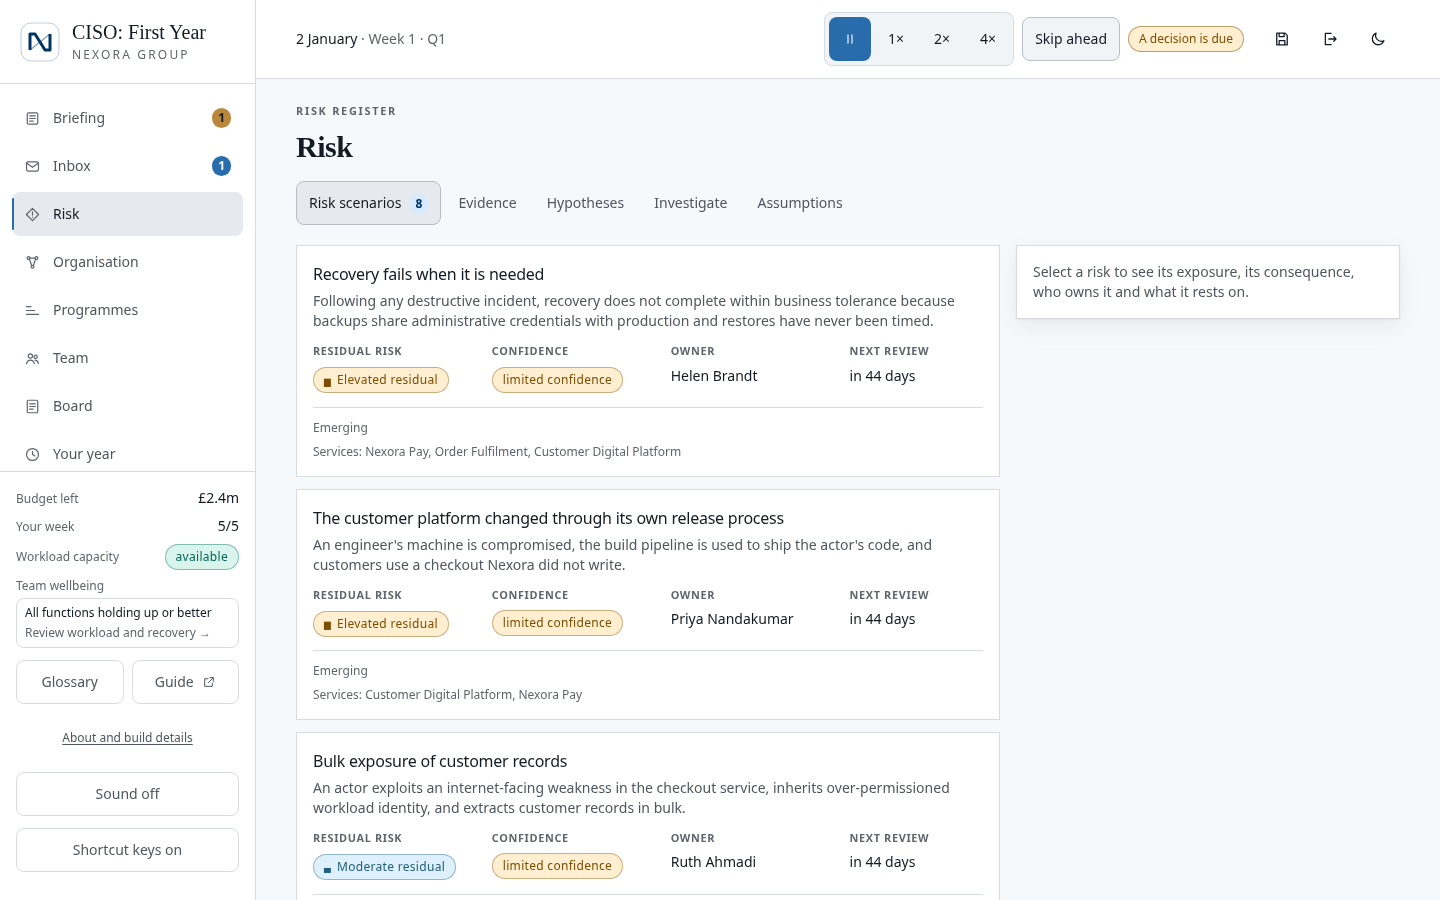
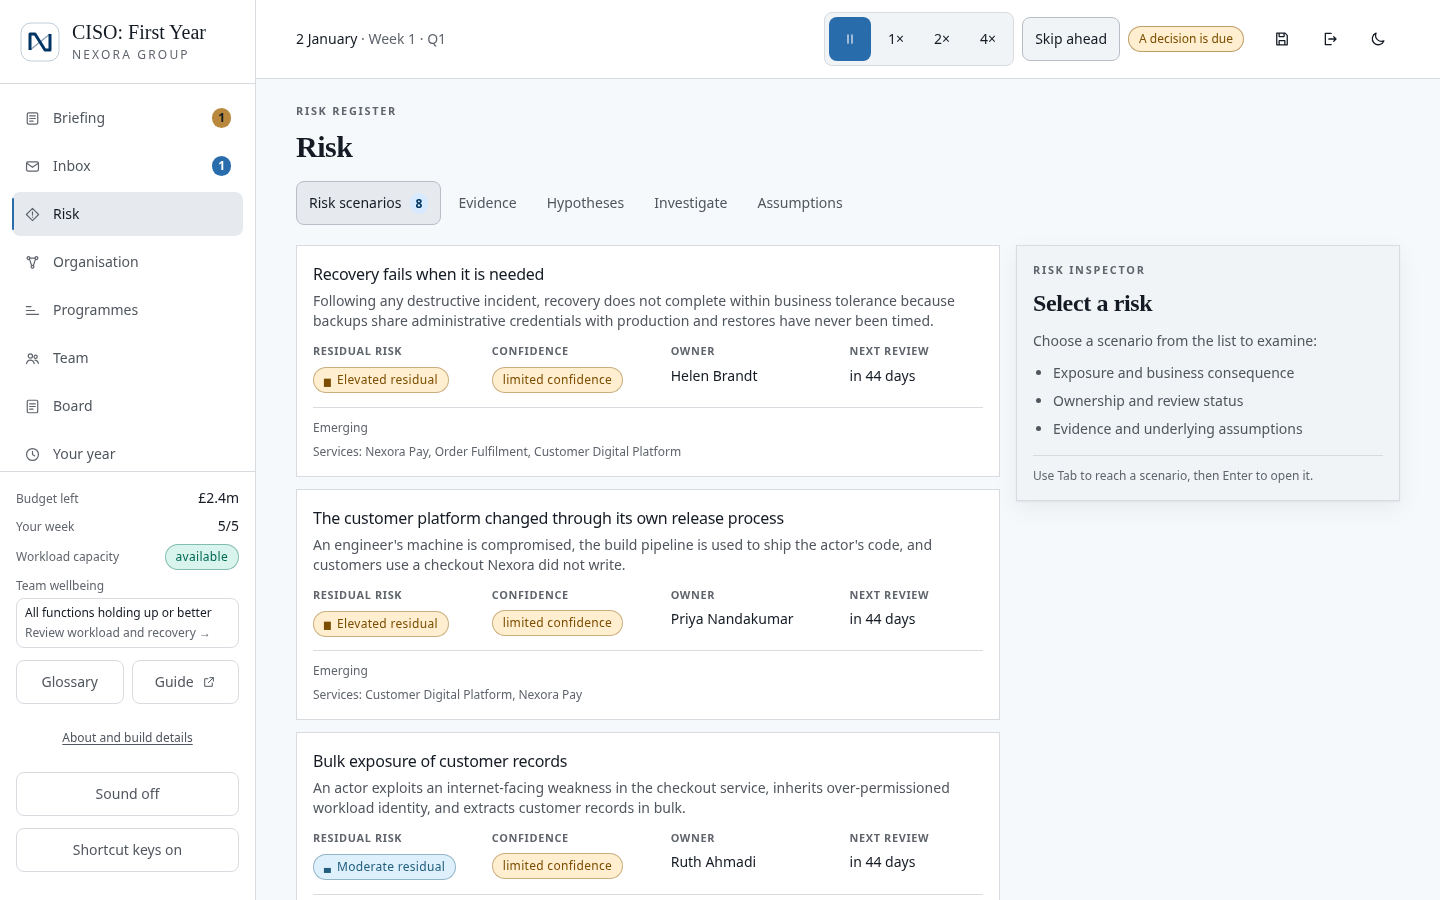
Refine compact header, risk navigation and reading layouts

Changed region(s): [[0.7188, 0.28, 0.9375, 0.56], [0.875, 0.5289, 0.9062, 0.56]]

diff --git a/src/components/layout/AppShell.tsx b/src/components/layout/AppShell.tsx
@@ -328,16 +328,16 @@ function ShellHeader() {
   if (!state) return null
   const view = briefing(state, index)
 
+  const resources = <dl className="header-resources grid grid-cols-[auto_auto] gap-x-3 text-xs lg:hidden" aria-label="Available resources">
+    <div><dt className="text-[0.65rem] text-ink-faint">Budget</dt><dd className="tabular-nums"><ChangeHighlight key={`${state.gameId}:budget`} value={view.budgetRemaining}>{money(view.budgetRemaining)}</ChangeHighlight></dd></div>
+    <div><dt className="text-[0.65rem] text-ink-faint">Attention</dt><dd className="tabular-nums"><ChangeHighlight key={`${state.gameId}:attention`} value={view.focusRemaining}>{attentionLeft(view.focusRemaining, view.focusPerWeek, true)}</ChangeHighlight></dd></div>
+  </dl>
+
   return (
     <header className="sticky top-0 z-20 border-b border-line bg-surface" data-print="hide">
-      {/* One row on wide screens. On a phone it was three: the date, the
-          save/theme controls, then the clock and a status chip, about a sixth
-          of the screen, with each screen's title sliding under it. Now the
-          date shares the first row with save, leave and theme, and the clock
-          has the second — at 320px the three icons had wrapped onto a row of
-          their own beneath it, a quarter of the screen. */}
-      <div className="mx-auto flex w-full max-w-6xl flex-wrap items-center gap-x-4 gap-y-1.5 px-4 py-2 sm:px-6 sm:py-3">
-        <div className="order-1 min-w-0 flex-1 lg:flex-none">
+      {/* Phones share the second row between clock controls and labelled resources. */}
+      <div className="mx-auto flex w-full max-w-6xl flex-wrap items-center gap-x-2 gap-y-1.5 px-4 py-2 sm:gap-x-4 sm:px-6 sm:py-3">
+        <div className="order-1 min-w-0 flex-1 basis-[calc(100%-10rem)] sm:basis-auto lg:flex-none">
           <p className="truncate text-sm font-medium">
             {view.dateLabel}
             <span className="text-ink-faint">
@@ -348,9 +348,7 @@ function ShellHeader() {
               {view.weekLabel} · Q{view.quarter}
             </span>
           </p>
-          <p className="truncate text-xs text-ink-faint lg:hidden">
-            <ChangeHighlight key={`${state.gameId}:budget`} value={view.budgetRemaining}>{money(view.budgetRemaining)} left</ChangeHighlight> · <ChangeHighlight key={`${state.gameId}:attention`} value={view.focusRemaining}>{attentionLeft(view.focusRemaining, view.focusPerWeek, true)} attention</ChangeHighlight>
-          </p>
+          <div className="hidden sm:block lg:hidden">{resources}</div>
         </div>
         <div className="order-2 flex shrink-0 items-center gap-1 sm:order-3 sm:ml-auto lg:ml-0" data-testid="header-tools">
           <Button
@@ -385,9 +383,10 @@ function ShellHeader() {
             <span className="sr-only">{theme === 'dark' ? 'Switch to light mode' : 'Switch to dark mode'}</span>
           </Button>
         </div>
-        <div className="order-3 w-full sm:order-2 sm:w-auto lg:flex lg:flex-1 lg:justify-end" data-testid="header-clock">
+        <div className="order-3 min-w-0 flex-1 basis-[calc(100%-9rem)] sm:order-2 sm:w-auto sm:flex-none sm:basis-auto lg:flex lg:flex-1 lg:justify-end" data-testid="header-clock">
           <TimeControls compact />
         </div>
+        <div className="order-4 sm:hidden">{resources}</div>
       </div>
     </header>
   )

diff --git a/src/screens/risk/RiskScreen.tsx b/src/screens/risk/RiskScreen.tsx
@@ -40,7 +40,7 @@ export function RiskScreen() {
       </header>
 
       <Tabs value={tab} onChange={setTab}>
-        <TabList label="Risk workspace">
+        <TabList label="Risk workspace" className="risk-tabs">
           {/* The count is what the tab lists: it counted open risks only, and
               read 11 over a list of 13 to 15 (AI second-year re-test). */}
           <Tab value="risks" count={risks.length}>Risk scenarios</Tab>
@@ -49,6 +49,7 @@ export function RiskScreen() {
           <Tab value="investigate">Investigate</Tab>
           <Tab value="assumptions" count={failedAssumptions}>Assumptions</Tab>
         </TabList>
+        <p className="mt-1 text-right text-xs text-ink-faint md:hidden">Swipe for more tabs →</p>
 
         <TabPanel value="risks">
           {risks.length === 0 ? (
@@ -120,11 +121,17 @@ export function RiskScreen() {
                 {selected ? (
                   <RiskDetail risk={selected} onClose={() => setUi({ selectedScenarioId: undefined })} />
                 ) : (
-                  <Card>
+                  <Card className="risk-inspector-prompt bg-surface-2 lg:sticky lg:top-24">
                     <CardBody>
-                      <p className="text-sm text-ink-muted">
-                        Select a risk to see its exposure, its consequence, who owns it and what it rests on.
-                      </p>
+                      <p className="document-kicker">Risk inspector</p>
+                      <h2 className="mt-2 font-display text-2xl">Select a risk</h2>
+                      <p className="mt-3 text-sm text-ink-muted">Choose a scenario from the list to examine:</p>
+                      <ul className="mt-3 list-disc space-y-2 pl-5 text-sm text-ink-muted">
+                        <li>Exposure and business consequence</li>
+                        <li>Ownership and review status</li>
+                        <li>Evidence and underlying assumptions</li>
+                      </ul>
+                      <p className="mt-4 border-t border-line pt-3 text-xs text-ink-faint">Use Tab to reach a scenario, then Enter to open it.</p>
                     </CardBody>
                   </Card>
                 )}

diff --git a/src/index.css b/src/index.css
@@ -647,7 +647,7 @@
 /* Reading and comparison surfaces retain their rhythm at the 320px floor. */
 .risk-comparison-grid { display: grid; grid-template-columns: repeat(2,minmax(0,1fr)); gap: 0.85rem 0.75rem; border-bottom: 1px solid var(--line); padding-bottom: 0.85rem; }
 .comparison-label { margin-bottom: 0.35rem; font-size: 0.68rem; font-weight: 600; color: var(--ink-faint); letter-spacing: 0.06em; text-transform: uppercase; }
-.portfolio-divider { display: flex; flex-wrap: wrap; justify-content: space-between; align-items: baseline; gap: 0.5rem; border-top: 2px solid var(--line-strong); padding: 1rem 0 0.25rem; margin-top: 1rem; font-family: var(--font-display); font-size: 1.5rem; }
+.portfolio-divider { display: flex; flex-wrap: wrap; justify-content: space-between; align-items: baseline; gap: 0.5rem; border-top: 1px solid var(--line-strong); padding: 0.75rem 0 0.25rem; font-family: var(--font-display); font-size: 1.5rem; }
 .reading-copy, .correspondence-body, .report-narrative { max-width: 66ch; line-height: 1.8; overflow-wrap: anywhere; }
 .correspondence-body > p, .report-narrative > p { margin-block: 0; }
 .correspondence-body > p + p, .report-narrative > p + p { margin-block-start: 1em; }
@@ -656,3 +656,13 @@
 .risk-comparison-grid .rounded-full { max-width: 100%; }
 .change-highlight { border-radius: 0.2rem; }
 @media (min-width: 1440px) { .risk-comparison-grid { grid-template-columns: minmax(0,1fr) minmax(0,1fr) minmax(0,1fr) minmax(0,0.8fr); } }
+
+/* Keep navigation compact without losing the final tab or resource values. */
+.portfolio-list > li + li { border-top: 1px solid var(--line); }
+.portfolio-list > li:has(.portfolio-divider) { border-top: 0; }
+.portfolio-divider + .programme-row { padding-top: 1rem; }
+@media (max-width: 767px) {
+  .risk-tabs { flex-wrap: nowrap; overflow-x: auto; overscroll-behavior-x: contain; scrollbar-width: thin; }
+  .message-reader .sender-signature { padding-block: 0.5rem; gap: 0.75rem; }
+  .message-reader .sender-signature > span[aria-hidden] { width: 3.5rem; height: 3.5rem; border-radius: 0.75rem; }
+}

diff --git a/tests/e2e/reading-flow.spec.ts b/tests/e2e/reading-flow.spec.ts
@@ -60,3 +60,35 @@ test('risk cards align the same four public facts and programmes retain focus wh
   await expect(row.getByRole('button', { name: 'Resume', exact: true })).toBeFocused()
   await expectNoHorizontalScroll(page)
 })
+
+
+test('compact resources stay readable and the final risk tab remains reachable by keyboard', async ({ page }) => {
+  await startCampaign(page, 'e2e-compact-workspace')
+  if (page.viewportSize()!.width < 1024) {
+    const resources = page.locator('.header-resources:visible')
+    await expect(resources.locator('dt')).toHaveText(['Budget', 'Attention'])
+    for (const value of await resources.locator('dd').all()) {
+      await expect(value).toBeInViewport()
+      expect(await value.evaluate((element) => element.scrollWidth <= element.clientWidth)).toBe(true)
+    }
+  }
+  await goTo(page, 'Risk')
+  await expect(page.getByRole('heading', { name: 'Select a risk', exact: true })).toBeVisible()
+  const tabs = page.getByRole('tablist', { name: 'Risk workspace' })
+  const first = tabs.getByRole('tab', { name: /^Risk scenarios/ })
+  const last = tabs.getByRole('tab', { name: /^Assumptions/ })
+  await first.focus()
+  await first.press('End')
+  await expect(last).toBeFocused()
+  await expect(last).toHaveAttribute('aria-selected', 'true')
+  await expect(last).toBeInViewport()
+  await last.press('Home')
+  await expect(first).toBeFocused()
+  await expect(first).toBeInViewport()
+  if (page.viewportSize()!.width < 768) {
+    const rows = await tabs.getByRole('tab').evaluateAll((elements) => elements.map((element) => Math.round(element.getBoundingClientRect().top)))
+    expect(new Set(rows).size).toBe(1)
+    await expect(page.getByText('Swipe for more tabs →')).toBeVisible()
+  }
+  await expectNoHorizontalScroll(page)
+})

diff --git a/src/screens/inbox/InboxScreen.tsx b/src/screens/inbox/InboxScreen.tsx
@@ -183,13 +183,13 @@ export function InboxScreen() {
                 </p>
                 <p className="text-sm text-ink-faint">{formatGameDate(selected.day).label}</p>
                 <h2 ref={heading} tabIndex={-1} className="mt-1 font-display text-2xl leading-tight text-balance">{selected.subject}</h2>
-                <div className="sender-signature mt-4 flex items-center gap-3">
+                <div className="sender-signature mt-2 md:mt-4 flex items-center gap-3">
                   {sender && <PersonPortrait key={sender.id} id={sender.id} name={sender.name} size={important ? 'large' : 'small'} />}
                   <div className="min-w-0 text-sm">
                     {sender ? <><p className="font-semibold text-ink">{sender.name}</p><p className="mt-1 text-ink-muted">{sender.role}</p>{selected.from !== sender.name && selected.from !== `${sender.name}, ${sender.role}` && <p className="mt-1 text-xs text-ink-faint">{selected.from}</p>}</> : <p className="text-ink-muted">{selected.from}</p>}
                   </div>
                 </div>
-                <div className="correspondence-body mt-6 space-y-4 text-pretty">
+                <div className="correspondence-body mt-3 md:mt-6 space-y-4 text-pretty">
                   {selected.body.split('\n\n').map((paragraph, position) => (
                     <p key={position} className="whitespace-pre-line leading-relaxed">
                       {paragraph}

diff --git a/src/components/ui/primitives.tsx b/src/components/ui/primitives.tsx
@@ -362,7 +362,7 @@ export function Tabs({
   )
 }
 
-export function TabList({ children, label }: { children: ReactNode; label: string }) {
+export function TabList({ children, label, className }: { children: ReactNode; label: string; className?: string }) {
   const onKeyDown = useCallback((event: React.KeyboardEvent<HTMLDivElement>) => {
     if (!['ArrowRight', 'ArrowLeft', 'Home', 'End'].includes(event.key)) return
     const tabs = Array.from(event.currentTarget.querySelectorAll<HTMLElement>('[role="tab"]'))
@@ -386,10 +386,9 @@ export function TabList({ children, label }: { children: ReactNode; label: strin
       role="tablist"
       aria-label={label}
       onKeyDown={onKeyDown}
-      // Wrapped rather than scrolled on a phone: scrolled, the last tabs sat
-      // off the right edge with nothing to say they were there, and a
-      // playtester looking for the enquiries tried three other screens first.
-      className="-mx-1 flex flex-wrap gap-1 px-1 pb-1"
+      // Wrap by default. A scrollable variant must provide a visible discovery
+      // cue: without one, a playtester missed the tabs beyond the right edge.
+      className={cn('-mx-1 flex flex-wrap gap-1 px-1 pb-1', className)}
     >
       {children}
     </div>

diff --git a/src/screens/programmes/ProgrammesScreen.tsx b/src/screens/programmes/ProgrammesScreen.tsx
@@ -70,7 +70,7 @@ export function ProgrammesScreen() {
 
       {live.length > 0 && (
         <section aria-label="Delivery portfolio">
-          <ul className="divide-y divide-line border-y border-line">
+          <ul className="portfolio-list">
             {groupedLive.map(({ programme, label, count }) => (
               <li key={programme.id}>
                 {label && <h2 className="portfolio-divider"><span>{label}</span>{' '}<span className="text-sm font-normal tabular-nums text-ink-muted">{count} {count === 1 ? 'programme' : 'programmes'}</span></h2>}

diff --git a/tests/e2e/visual-story.spec.ts b/tests/e2e/visual-story.spec.ts
@@ -33,7 +33,7 @@ test('important correspondence gives the named sender a readable portrait and ro
   await signature.scrollIntoViewIfNeeded()
   await expect(signature).toContainText('Marianne Okafor')
   await expect(signature).toContainText('Chief Executive')
-  expect((await signature.locator('img').locator('..').boundingBox())!.width).toBeGreaterThanOrEqual(80)
+  expect((await signature.locator('img').locator('..').boundingBox())!.width).toBeGreaterThanOrEqual(page.viewportSize()!.width < 768 ? 56 : 80)
   await expectNoHorizontalScroll(page)
 })
 

diff --git a/tests/e2e/scrolling.spec.ts b/tests/e2e/scrolling.spec.ts
@@ -50,6 +50,8 @@ for (const theme of ['light', 'dark'] as const) {
       // Horizontal filters must let vertical input reach the page or main pane.
       const filters = name === 'Inbox'
         ? main.getByRole('group', { name: 'Filter messages' })
+        : name === 'Risk'
+          ? main.getByRole('tablist', { name: 'Risk workspace' })
         : name === 'Organisation'
           ? main.getByRole('button', { name: 'Everything', exact: true }).locator('..')
           : undefined

diff --git a/AGENTS.md b/AGENTS.md
@@ -32,6 +32,15 @@ changes.
 
 ## Artwork
 
+- Compact header resources retain visible Budget and Attention labels and full
+  values at 320px. Keep clock, save and theme controls within two phone rows.
+- Risk tabs may scroll horizontally below 768px, with a visible discovery cue,
+  native overflow and keyboard access to every tab. Contain horizontal gestures
+  only; vertical wheel/touch input must still reach the page.
+- Compact phone correspondence keeps full sender names and roles, and a working
+  portrait fallback. Programme groups use one divider per boundary while keeping
+  the same keyed rows and intervention controls.
+
 - At widths below 768px, explicit or retained Inbox selections move to the reader
   after shell navigation has settled. Back to messages restores the selected
   row’s focus and position. Do not hide or rebuild the frozen Unread membership.

diff --git a/README.md b/README.md
@@ -36,6 +36,12 @@ beginning, middle and end of the year. These are a chronological sample, not
 a score or a claim about which choices caused the outcome. The full timeline,
 judgement log, sharing and printable review remain available.
 
+The phone header shows labelled budget and attention values beside the clock
+controls. Risk tabs use one horizontal row below 768px, with a swipe cue and
+arrow-key/Home/End navigation. The empty inspector explains what selecting a
+scenario reveals. Programme groups use simpler dividers, and phone sender
+blocks leave more room for message text while retaining full names and roles.
+
 On phones, selecting an Inbox message moves to its reader; **Back to messages**
 returns focus and position to the selected row. Returning to Inbox retains the
 selected message. Unread membership remains stable while you read. Risk cards

diff --git a/CHANGELOG.md b/CHANGELOG.md
@@ -10,6 +10,10 @@ The game as it stands after the roadmap's engineering phases
 (`docs/ROADMAP.md`, Phases 0–7). Version 0.1.0 until the owner tags a release.
 
 ### Playing
+- Compact phone resources have readable labels and values beside the clock.
+  Risk tabs scroll in one row with a discovery cue and keyboard navigation;
+  the inspector has a clearer selection prompt. Programme dividers and mobile
+  sender blocks use less space while keeping controls, names and roles visible.
 - Phone Inbox selections move to the reader, with Back to messages restoring the
   selected row. Returning to Inbox retains the selected message.
 - Risk cards align four comparable facts. Programme status groups keep running,
